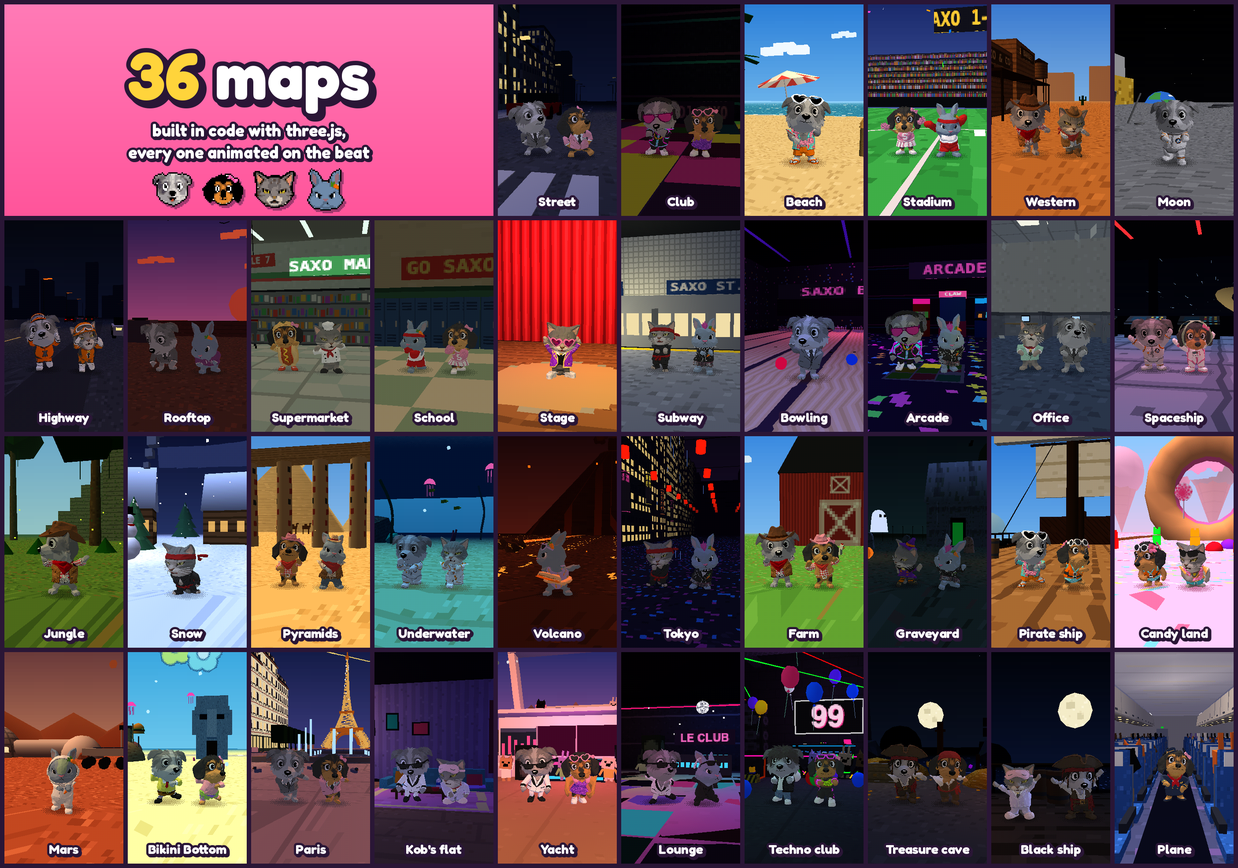
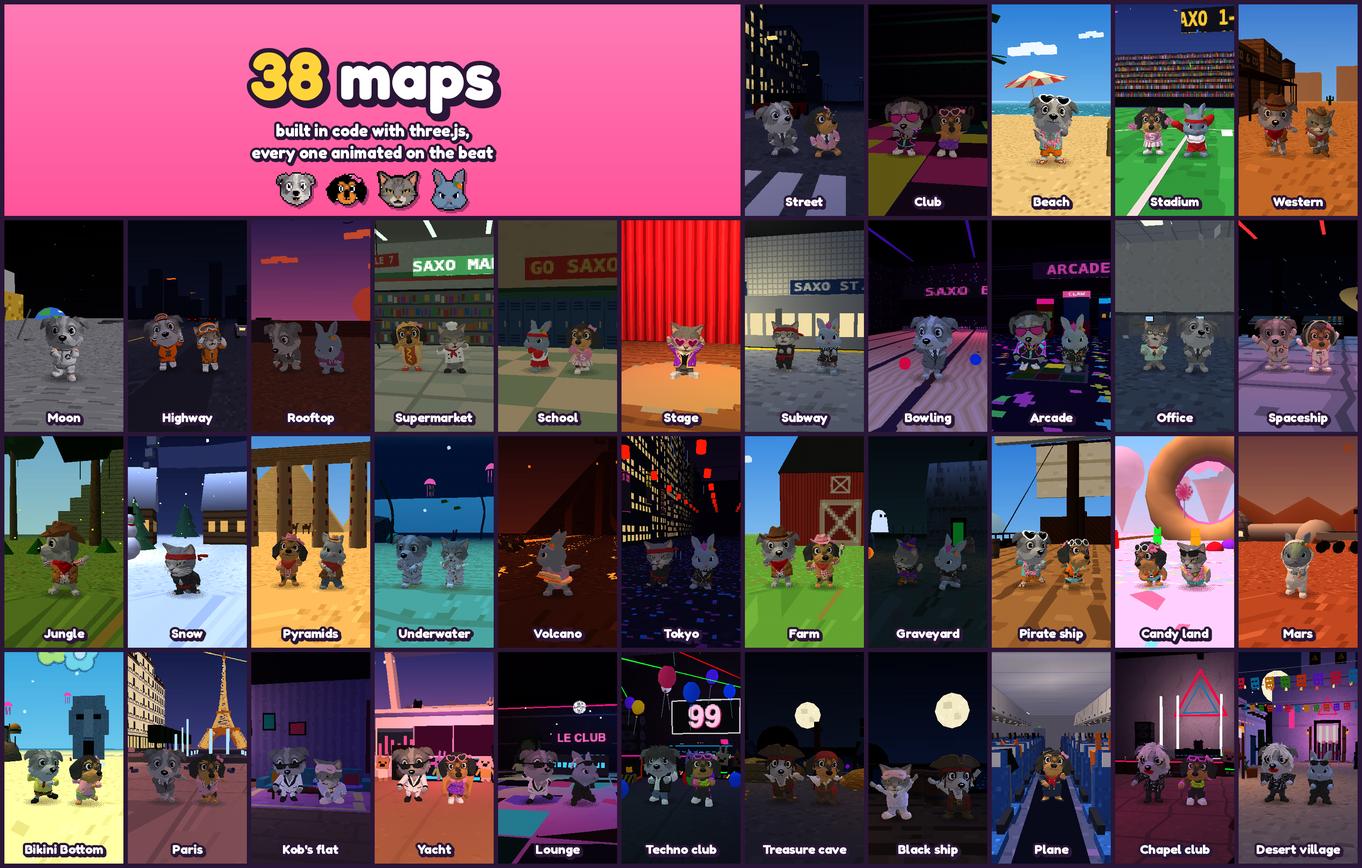
Sync with db08809: docs(readme): add the chapel and village tiles, the pop-star and bartender looks and the stats island

diff --git a/README.md b/README.md
@@ -83,7 +83,7 @@
 </table>
 
 <p align="center">
-  <img src="docs/readme/wardrobe.png" width="100%" alt="The wardrobe: every look of Saxo, Sadi, Kob and Compote, from cowboy and astronaut to SpongeBob, Michou's white tux, Kob's pyjamas, the pirates, the tourist, the air hostess and the poop suit">
+  <img src="docs/readme/wardrobe.png" width="100%" alt="The wardrobe: every look of Saxo, Sadi, Kob and Compote, from cowboy and astronaut to SpongeBob, a white tuxedo, Kob's pyjamas, the pirates, the tourist, the air hostess, a pop-star disguise, Kob the bartender and the poop suit">
 </p>
 
 Each map dresses the cast for the occasion: astronaut suits on the moon, cowboy hats out west, SpongeBob and Patrick
@@ -92,7 +92,7 @@ in Bikini Bottom, a hot dog in the supermarket. The poop suit is never automatic
 ## 38 maps, and counting
 
 <p align="center">
-  <img src="docs/readme/maps.png" width="100%" alt="The maps, from the street, club and moon to Tokyo, Paris, the yacht, the techno club, the treasure cave, the black ship and the plane, each with the cast in costume">
+  <img src="docs/readme/maps.png" width="100%" alt="The maps, from the street, club and moon to Tokyo, Paris, the yacht, the techno club, the treasure cave, the black ship, the plane, the chapel club and the desert village, each with the cast in costume">
 </p>
 
 Every map is built from primitives in [`src/maps*.js`](src/) and animated as a pure function of time, mostly on the
@@ -115,10 +115,11 @@ flowchart LR
     class F gate
 ```
 
-Every night a scheduled run wakes every 30 minutes, asks `tools/night.mjs` whether anything is
+A scheduled run wakes every 30 minutes, asks `tools/night.mjs` whether anything is
 due, and follows `research/DAILY_ROUTINE.md` to make one video at a time, with no
 approval step and a budget per video. The first starts at 21:00 and the others no earlier than 23:00, 01:00 and 03:00;
-each is scheduled for one of the next day's slots, at 08:00, 12:00, 16:00 and 20:00.
+each is scheduled for one of the next day's slots, at 08:00, 12:00, 16:00 and 20:00. Every wake also refreshes
+saxo.dance and checks this README against the code, rebuilding any image that no longer matches it.
 
 1. **Scout.** [`tools/trends.mjs`](tools/trends.mjs) scans what is going viral in our niches, and live meme formats
    land in `research/MEMES.md`. Songs asked for in
@@ -138,9 +139,10 @@ each is scheduled for one of the next day's slots, at 08:00, 12:00, 16:00 and 20
 5. **Check.** The QA gate runs before a single frame is rendered (see below), then come contact sheets, zoomed stills,
    an independent reviewer that sees one frame per shot, and a critic's score before anything is posted.
 6. **Ship.** [`publish.mjs`](publish.mjs) schedules the video on TikTok, Instagram Reels, YouTube Shorts and X for its
-   slot, with per-platform captions and hashtags. YouTube gets a cut of 60 s or less that keeps the episode's ending.
-   Ten minutes after each post goes out, `tools/post_check.mjs` checks it is live, public and
-   audible.
+   slot, with per-platform captions and hashtags (X gets the video alone). YouTube gets a cut of 60 s or less that
+   keeps the episode's ending. Ten minutes after each post goes out, `tools/post_check.mjs`
+   checks it is live, public and audible; when TikTok mutes a song, the video is re-cut to that song's official
+   TikTok sound.
 7. **Measure.** [`tools/metrics.mjs`](tools/metrics.mjs) snapshots every post at 24 h and 72 h against the channel
    median. Rules that hold up go into `research/PLAYBOOK.md`, which the next run reads.
 
@@ -192,7 +194,7 @@ renders. Frames can be drawn out of order in parallel tabs, and an interrupted r
 </p>
 
 <p align="center">
-  <img src="docs/readme/site.jpg" width="100%" alt="Saxo TV with every posted video, the dress-up wardrobe, a chat with Compote in her carrot garden, and the GitHub island">
+  <img src="docs/readme/site.jpg" width="100%" alt="Saxo TV with every posted video, a chat with Compote in her carrot garden, the GitHub island, and the stats island with its scoreboard, bar chart, pie and podium">
 </p>
 
 A playable version of the channel in the same PS1 look. Walk Saxo around a floating diorama (the living room, the club,
@@ -200,7 +202,7 @@ Compote's carrot garden, the pool), talk to the gang in branching chats, dress u
 video on **Saxo TV**. Across the bridge east of the pool, the GitHub island's giant computer opens this
 repository; across the one west of the living room, the stats island counts every view, like and follower: a stadium
 scoreboard, a bar chart of the latest videos stacked by platform, a pie chart you walk on and a podium of the three
-most-watched videos, refreshed at every deploy from the platforms' free public numbers. It is plain ES modules and
+most-watched videos, refreshed every 30 minutes from the platforms' free public numbers. It is plain ES modules and
 three.js bundled with esbuild ([`site/`](site/)), with a WebAudio house loop synthesised in the browser: no audio files.
 
 ## Quick start
